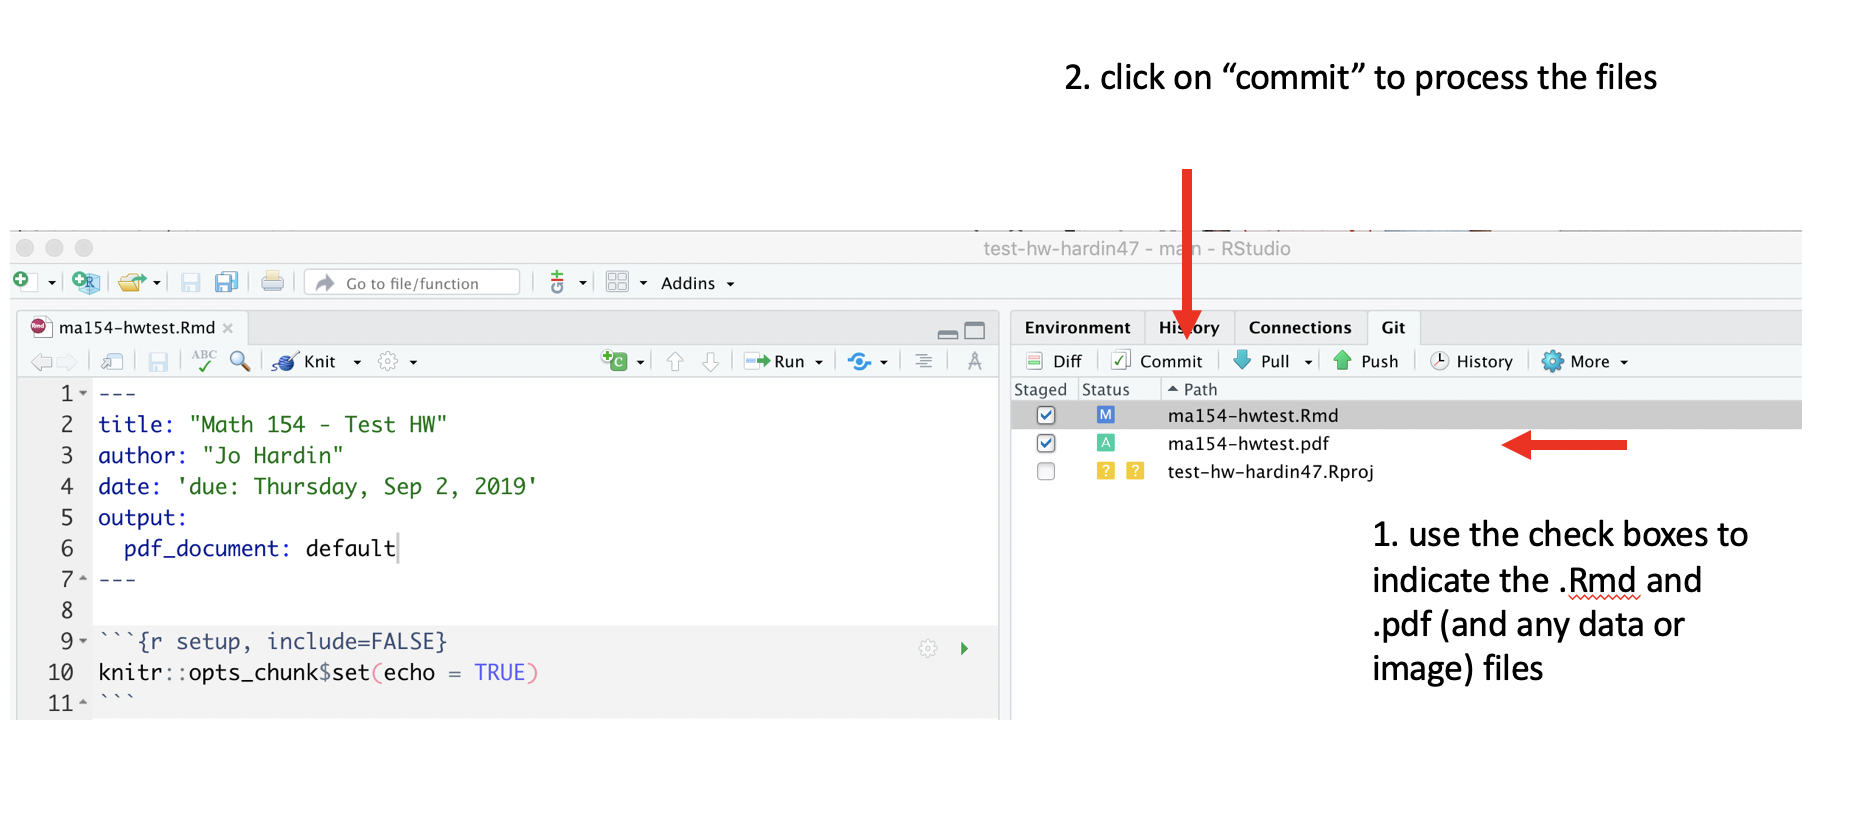
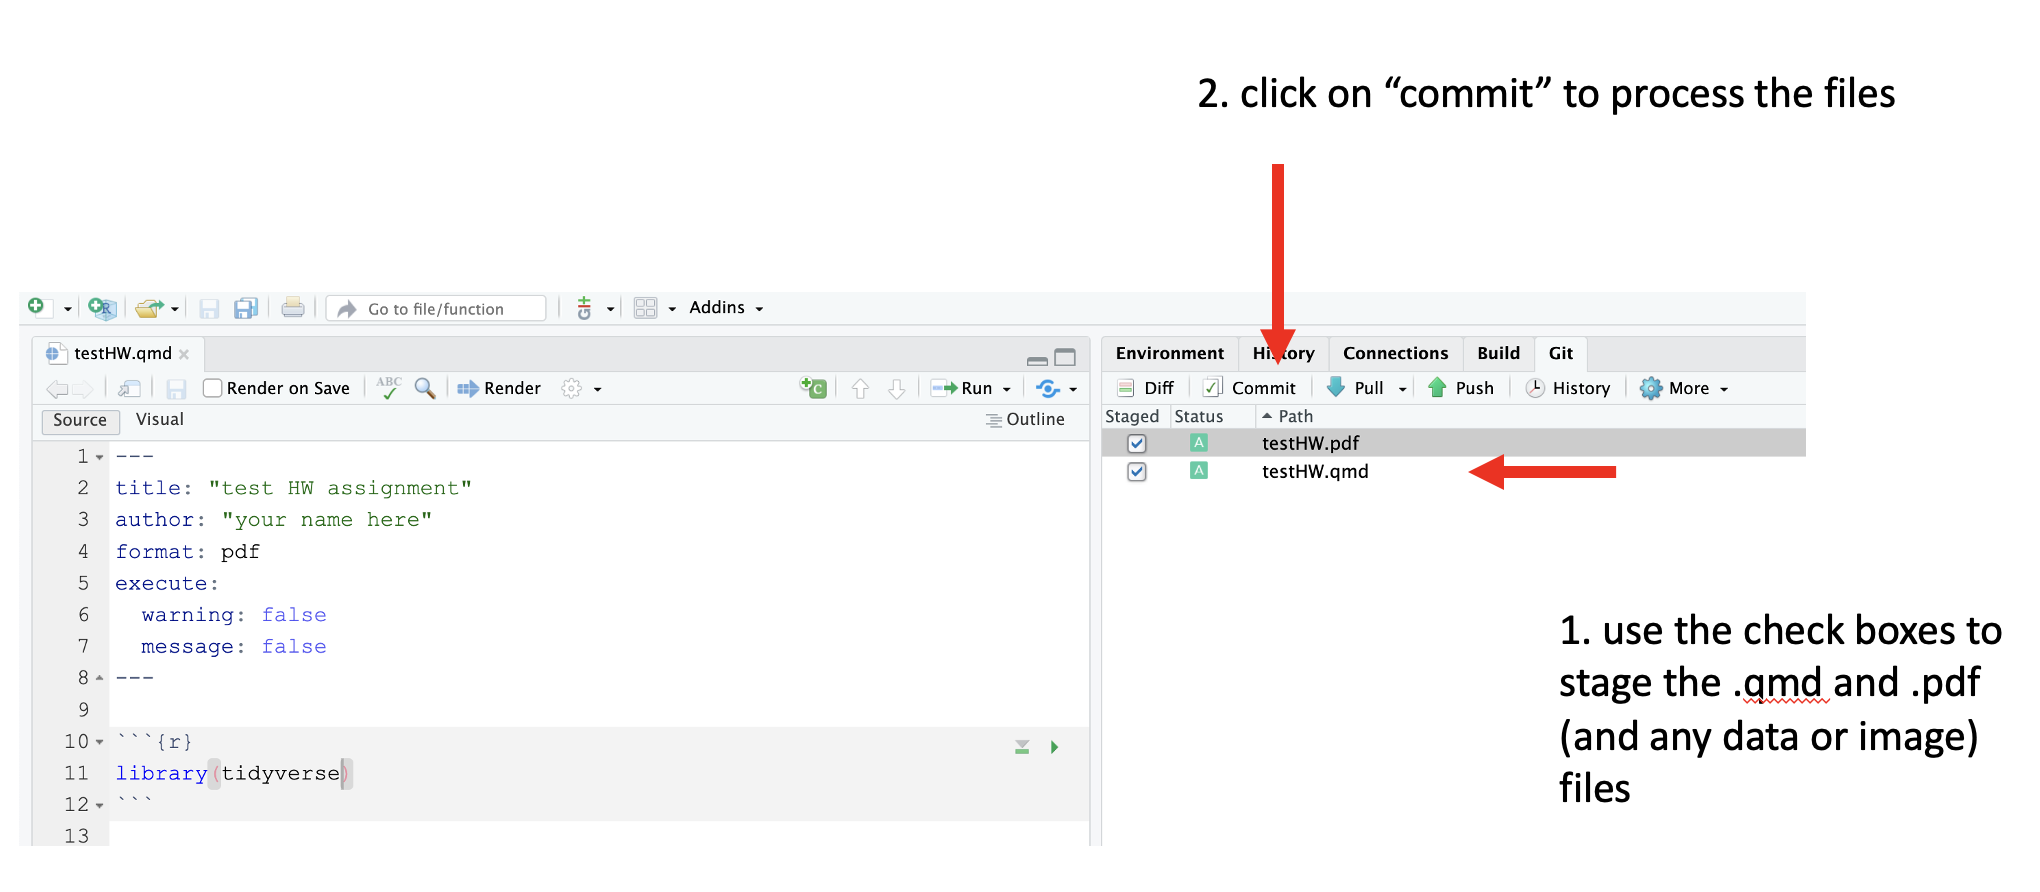
updating github

diff --git a/_site/github.html b/_site/github.html
@@ -21,7 +21,7 @@
 <style type="text/css">code{white-space: pre;}</style>
 <style type="text/css" data-origin="pandoc">
 pre > code.sourceCode { white-space: pre; position: relative; }
-pre > code.sourceCode > span { display: inline-block; line-height: 1.25; }
+pre > code.sourceCode > span { line-height: 1.25; }
 pre > code.sourceCode > span:empty { height: 1.2em; }
 .sourceCode { overflow: visible; }
 code.sourceCode > span { color: inherit; text-decoration: inherit; }
@@ -834,9 +834,21 @@ code span.wa { color: #5e5e5e; font-style: italic; } /* Warning */
     display: none !important;
   }
 
+  hr.section-separator {
+    border: none;
+    border-top: 1px solid rgba(0, 0, 0, 0.1);
+    margin: 0px;
+  }
+
+
+  d-byline {
+    border-top: none;
+  }
+
   d-article {
     padding-top: 2.5rem;
     padding-bottom: 30px;
+    border-top: none;
   }
 
   d-appendix {
@@ -931,6 +943,11 @@ code span.wa { color: #5e5e5e; font-style: italic; } /* Warning */
   d-article div.sourceCode pre {
     padding-left: 18px;
     font-size: 14px;
+  }
+
+  /* tweak for Pandoc numbered line within distill */
+  d-article pre.numberSource code > span {
+      left: -2em;
   }
 
   d-article pre {
@@ -1692,6 +1709,12 @@ code span.wa { color: #5e5e5e; font-style: italic; } /* Warning */
     // create d-title
     $('.d-title').changeElementType('d-title');
 
+    // separator
+    var separator = '<hr class="section-separator" style="clear: both"/>';
+    // prepend separator above appendix
+    $('.d-byline').before(separator);
+    $('.d-article').before(separator);
+
     // create d-byline
     var byline = $('<d-byline></d-byline>');
     $('.d-byline').replaceWith(byline);
@@ -1769,8 +1792,9 @@ code span.wa { color: #5e5e5e; font-style: italic; } /* Warning */
     $('.distill-force-highlighting-css').parent().remove();
 
     // remove empty line numbers inserted by pandoc when using a
-    // custom syntax highlighting theme
-    $('code.sourceCode a:empty').remove();
+    // custom syntax highlighting theme, except when numbering line
+    // in code chunk
+    $('pre:not(.numberLines) code.sourceCode a:empty').remove();
 
     // load distill framework
     load_distill_framework();
@@ -1796,12 +1820,13 @@ code span.wa { color: #5e5e5e; font-style: italic; } /* Warning */
       // add orcid ids
       $('.authors-affiliations').find('.author').each(function(i, el) {
         var orcid_id = front_matter.authors[i].orcidID;
+        var author_name = front_matter.authors[i].author
         if (orcid_id) {
           var a = $('<a></a>');
           a.attr('href', 'https://orcid.org/' + orcid_id);
           var img = $('<img></img>');
           img.addClass('orcid-id');
-          img.attr('alt', 'ORCID ID');
+          img.attr('alt', author_name ? 'ORCID ID for ' + author_name : 'ORCID ID');
[1 lines of base64/hex data omitted]
           a.append(img);
           $(this).append(a);
@@ -2079,7 +2104,7 @@ code span.wa { color: #5e5e5e; font-style: italic; } /* Warning */
   </script>
 
   <!--/radix_placeholder_distill-->
-  <script src="site_libs/header-attrs-2.25/header-attrs.js"></script>
+  <script src="site_libs/header-attrs-2.27/header-attrs.js"></script>
   <script src="site_libs/popper-2.6.0/popper.min.js"></script>
   <link href="site_libs/tippy-6.2.7/tippy.css" rel="stylesheet" />
   <link href="site_libs/tippy-6.2.7/tippy-light-border.css" rel="stylesheet" />
@@ -2302,6 +2327,7 @@ Project
 <a href="https://hardin47.netlify.app/courses/data/">Data Sources</a>
 </div>
 </div>
+<a href="R-tip.html">R tip</a>
 <a href="github.html">GitHub</a>
 <a href="javascript:void(0);" class="nav-toggle">&#9776;</a>
 </div>
@@ -2313,6 +2339,7 @@ Project
 
 <div class="d-title">
 <h1>Working on assignments with GitHub and Gradescope</h1>
+
 <!--radix_placeholder_categories-->
 <!--/radix_placeholder_categories-->
 <p><p>Huge thanks to Ben Wiedermann at HMC for sharing the following.</p></p>
@@ -2454,17 +2481,17 @@ Figure 6: Copy the HTTPS URL, and use it to create a new project in RStudio.
 <div class="figure"><span style="display:block;" id="fig:unnamed-chunk-7"></span>
 <img src="images/pull.png" alt="Screen shot of how to pull using the Rstudio IDE." width="379" />
 <p class="caption">
-Figure 7: Always pull before you start. pull-work-save-commit-push
+Figure 7: Always pull before you start. pull-work-render-commit-push
 </p>
 </div>
 </div>
-<h2 id="knit-your-work"><code>knit</code> your work</h2>
-<p>Don’t forget to put your name on the assignment. Also, make sure that you knit to pdf. Knit early and often. The more often you knit, the fewer headaches you will have.</p>
+<h2 id="render-your-work"><code>Render</code> your work</h2>
+<p>Don’t forget to put your name on the assignment. Also, make sure that you Render to pdf. Render early and often. The more often you Render, the fewer headaches you will have.</p>
 <div class="layout-chunk" data-layout="l-body">
 <div class="figure"><span style="display:block;" id="fig:unnamed-chunk-8"></span>
-<img src="images/name-knit.png" alt="Screen shot of how to knit using the RStudio IDE." width="903" />
+<img src="images/name-render.png" alt="Screen shot of how to Render using the RStudio IDE." width="940" />
 <p class="caption">
-Figure 8: Always pull before you start. pull-work-knit-commit-push
+Figure 8: Always pull before you start. pull-work-render-commit-push
 </p>
 </div>
 </div>
@@ -2472,9 +2499,9 @@ Figure 8: Always pull before you start. pull-work-knit-commit-push
 <p>You don’t need to commit every file, but you do need to commit files that are integral to the analysis (always commit .qmd, .pdf, data files, images that created the pdf, etc.).</p>
 <div class="layout-chunk" data-layout="l-body">
 <div class="figure"><span style="display:block;" id="fig:unnamed-chunk-9"></span>
-<img src="images/choose-commit.png" alt="Screen shot of how to commit using the RStudio IDE." width="926" />
+<img src="images/choose-commit.png" alt="Screen shot of how to commit using the RStudio IDE." width="1020" />
 <p class="caption">
-Figure 9: pull-work-knit-commit-push
+Figure 9: pull-work-render-commit-push
 </p>
 </div>
 </div>
@@ -2482,9 +2509,9 @@ Figure 9: pull-work-knit-commit-push
 <p>It is good practice to use meaningful commit messages to help your future self figure out your past work.</p>
 <div class="layout-chunk" data-layout="l-body">
 <div class="figure"><span style="display:block;" id="fig:unnamed-chunk-10"></span>
-<img src="images/commit-push.png" alt="Screen shot of how to push using the RStudio IDE." width="959" />
+<img src="images/commit-push.png" alt="Screen shot of how to push using the RStudio IDE." width="1063" />
 <p class="caption">
-Figure 10: pull-work-knit-commit-push
+Figure 10: pull-work-render-commit-push
 </p>
 </div>
 </div>

diff --git a/_site/index.html b/_site/index.html
@@ -2787,7 +2787,7 @@ resources
 </tr>
 <tr>
 <td style="text-align:left;">
-11.25.24
+12.2.24
 </td>
 <td style="text-align:left;">
 <a href="">fantastic extensions</a>
